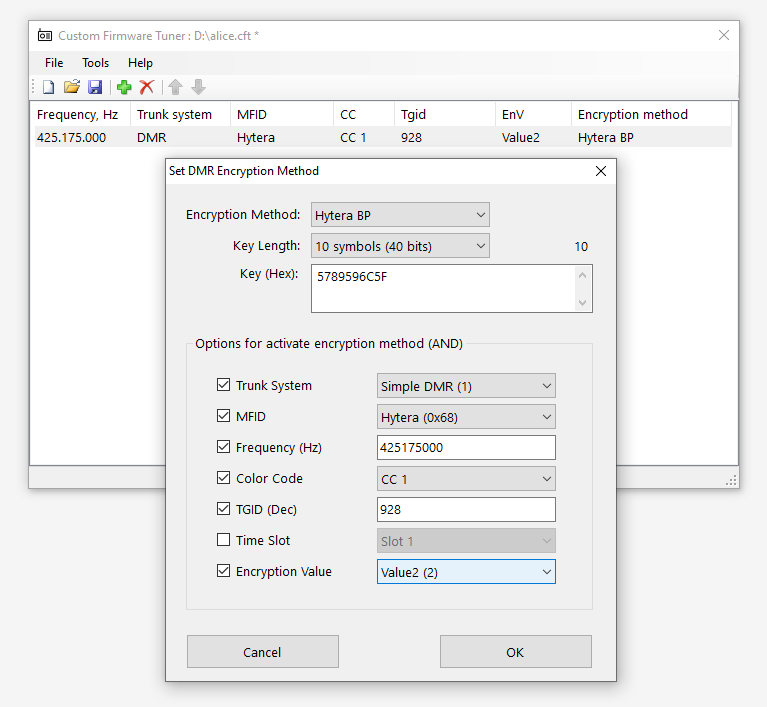
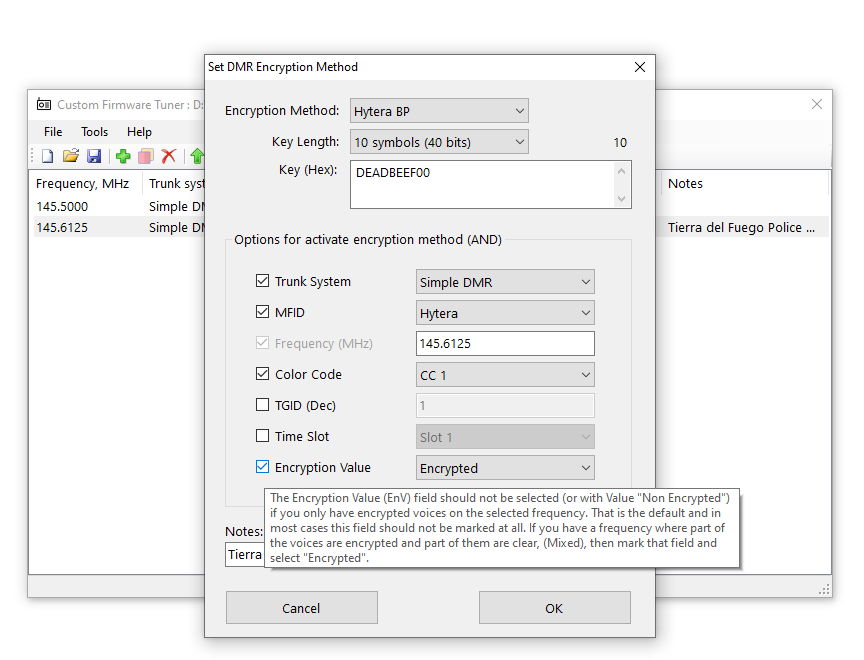
Frequency is now shown in MHz

Changed region(s): [[0.03, 0.0, 0.9896, 1.0], [0.5997, 0.0606, 0.7497, 0.0909]]

diff --git a/src/EncryptionMethodForm.Designer.cs b/src/EncryptionMethodForm.Designer.cs
@@ -68,7 +68,7 @@
             this.cbTrunkSystem.Location = new System.Drawing.Point(31, 41);
             this.cbTrunkSystem.Name = "cbTrunkSystem";
             this.cbTrunkSystem.Size = new System.Drawing.Size(103, 21);
-            this.cbTrunkSystem.TabIndex = 0;
+            this.cbTrunkSystem.TabIndex = 4;
             this.cbTrunkSystem.Text = "Trunk System";
             this.cbTrunkSystem.UseVisualStyleBackColor = true;
             this.cbTrunkSystem.CheckedChanged += new System.EventHandler(this.cb_CheckedChanged);
@@ -79,7 +79,7 @@
             this.cbMfid.Location = new System.Drawing.Point(31, 72);
             this.cbMfid.Name = "cbMfid";
             this.cbMfid.Size = new System.Drawing.Size(57, 21);
-            this.cbMfid.TabIndex = 1;
+            this.cbMfid.TabIndex = 6;
             this.cbMfid.Text = "MFID";
             this.cbMfid.UseVisualStyleBackColor = true;
             this.cbMfid.CheckedChanged += new System.EventHandler(this.cb_CheckedChanged);
@@ -92,9 +92,9 @@
             this.cbFrequency.Enabled = false;
             this.cbFrequency.Location = new System.Drawing.Point(31, 103);
             this.cbFrequency.Name = "cbFrequency";
-            this.cbFrequency.Size = new System.Drawing.Size(113, 21);
-            this.cbFrequency.TabIndex = 2;
-            this.cbFrequency.Text = "Frequency (Hz)";
+            this.cbFrequency.Size = new System.Drawing.Size(125, 21);
+            this.cbFrequency.TabIndex = 8;
+            this.cbFrequency.Text = "Frequency (MHz)";
             this.cbFrequency.UseVisualStyleBackColor = true;
             this.cbFrequency.CheckedChanged += new System.EventHandler(this.cb_CheckedChanged);
             // 
@@ -104,7 +104,7 @@
             this.cbColorCode.Location = new System.Drawing.Point(31, 134);
             this.cbColorCode.Name = "cbColorCode";
             this.cbColorCode.Size = new System.Drawing.Size(94, 21);
-            this.cbColorCode.TabIndex = 3;
+            this.cbColorCode.TabIndex = 10;
             this.cbColorCode.Text = "Color Code";
             this.cbColorCode.UseVisualStyleBackColor = true;
             this.cbColorCode.CheckedChanged += new System.EventHandler(this.cb_CheckedChanged);
@@ -115,7 +115,7 @@
             this.cbTgid.Location = new System.Drawing.Point(31, 165);
             this.cbTgid.Name = "cbTgid";
             this.cbTgid.Size = new System.Drawing.Size(88, 21);
-            this.cbTgid.TabIndex = 4;
+            this.cbTgid.TabIndex = 12;
             this.cbTgid.Text = "TGID (Dec)";
             this.cbTgid.UseVisualStyleBackColor = true;
             this.cbTgid.CheckedChanged += new System.EventHandler(this.cb_CheckedChanged);
@@ -126,7 +126,7 @@
             this.cbTimeSlot.Location = new System.Drawing.Point(31, 196);
             this.cbTimeSlot.Name = "cbTimeSlot";
             this.cbTimeSlot.Size = new System.Drawing.Size(81, 21);
-            this.cbTimeSlot.TabIndex = 5;
+            this.cbTimeSlot.TabIndex = 14;
             this.cbTimeSlot.Text = "Time Slot";
             this.cbTimeSlot.UseVisualStyleBackColor = true;
             this.cbTimeSlot.CheckedChanged += new System.EventHandler(this.cb_CheckedChanged);
@@ -137,7 +137,7 @@
             this.cbEncryptionValue.Location = new System.Drawing.Point(31, 227);
             this.cbEncryptionValue.Name = "cbEncryptionValue";
             this.cbEncryptionValue.Size = new System.Drawing.Size(123, 21);
-            this.cbEncryptionValue.TabIndex = 6;
+            this.cbEncryptionValue.TabIndex = 16;
             this.cbEncryptionValue.Text = "Encryption Value";
             this.toolTip.SetToolTip(this.cbEncryptionValue, resources.GetString("cbEncryptionValue.ToolTip"));
             this.cbEncryptionValue.UseVisualStyleBackColor = true;
@@ -150,7 +150,7 @@
             this.cbbTrunkSystem.Location = new System.Drawing.Point(191, 39);
             this.cbbTrunkSystem.Name = "cbbTrunkSystem";
             this.cbbTrunkSystem.Size = new System.Drawing.Size(179, 25);
-            this.cbbTrunkSystem.TabIndex = 7;
+            this.cbbTrunkSystem.TabIndex = 5;
             // 
             // cbbMfid
             // 
@@ -159,7 +159,7 @@
             this.cbbMfid.Location = new System.Drawing.Point(191, 70);
             this.cbbMfid.Name = "cbbMfid";
             this.cbbMfid.Size = new System.Drawing.Size(179, 25);
-            this.cbbMfid.TabIndex = 8;
+            this.cbbMfid.TabIndex = 7;
             // 
             // tbFrequency
             // 
@@ -175,7 +175,7 @@
             this.cbbColorCode.Location = new System.Drawing.Point(191, 132);
             this.cbbColorCode.Name = "cbbColorCode";
             this.cbbColorCode.Size = new System.Drawing.Size(179, 25);
-            this.cbbColorCode.TabIndex = 10;
+            this.cbbColorCode.TabIndex = 11;
             // 
             // cbbTimeSlot
             // 
@@ -184,7 +184,7 @@
             this.cbbTimeSlot.Location = new System.Drawing.Point(191, 194);
             this.cbbTimeSlot.Name = "cbbTimeSlot";
             this.cbbTimeSlot.Size = new System.Drawing.Size(179, 25);
-            this.cbbTimeSlot.TabIndex = 12;
+            this.cbbTimeSlot.TabIndex = 15;
             // 
             // cbbEncryptionValue
             // 
@@ -193,7 +193,7 @@
             this.cbbEncryptionValue.Location = new System.Drawing.Point(191, 225);
             this.cbbEncryptionValue.Name = "cbbEncryptionValue";
             this.cbbEncryptionValue.Size = new System.Drawing.Size(179, 25);
-            this.cbbEncryptionValue.TabIndex = 13;
+            this.cbbEncryptionValue.TabIndex = 17;
             // 
             // label1
             // 
@@ -211,7 +211,7 @@
             this.cbbEncryptionMethod.Location = new System.Drawing.Point(145, 18);
             this.cbbEncryptionMethod.Name = "cbbEncryptionMethod";
             this.cbbEncryptionMethod.Size = new System.Drawing.Size(179, 25);
-            this.cbbEncryptionMethod.TabIndex = 15;
+            this.cbbEncryptionMethod.TabIndex = 1;
             this.cbbEncryptionMethod.SelectedIndexChanged += new System.EventHandler(this.cb_CheckedChanged);
             // 
             // lblKeyExt
@@ -228,7 +228,7 @@
             this.tbTgid.Location = new System.Drawing.Point(191, 163);
             this.tbTgid.Name = "tbTgid";
             this.tbTgid.Size = new System.Drawing.Size(179, 25);
-            this.tbTgid.TabIndex = 11;
+            this.tbTgid.TabIndex = 13;
             // 
             // tbKey
             // 
@@ -237,7 +237,7 @@
             this.tbKey.Name = "tbKey";
             this.tbKey.ScrollBars = System.Windows.Forms.ScrollBars.Vertical;
             this.tbKey.Size = new System.Drawing.Size(282, 49);
-            this.tbKey.TabIndex = 18;
+            this.tbKey.TabIndex = 3;
             this.tbKey.Tag = "";
             this.tbKey.TextChanged += new System.EventHandler(this.tbKey_TextChanged);
             // 
@@ -280,7 +280,7 @@
             this.btnCancel.Location = new System.Drawing.Point(20, 510);
             this.btnCancel.Name = "btnCancel";
             this.btnCancel.Size = new System.Drawing.Size(154, 35);
-            this.btnCancel.TabIndex = 21;
+            this.btnCancel.TabIndex = 19;
             this.btnCancel.Text = "Cancel";
             this.btnCancel.UseVisualStyleBackColor = true;
             // 
@@ -290,7 +290,7 @@
             this.btnOK.Location = new System.Drawing.Point(273, 510);
             this.btnOK.Name = "btnOK";
             this.btnOK.Size = new System.Drawing.Size(154, 35);
-            this.btnOK.TabIndex = 22;
+            this.btnOK.TabIndex = 20;
             this.btnOK.Text = "OK";
             this.btnOK.UseVisualStyleBackColor = true;
             this.btnOK.Click += new System.EventHandler(this.btnOK_Click);
@@ -322,7 +322,7 @@
             0});
             this.nudMotoKey.Name = "nudMotoKey";
             this.nudMotoKey.Size = new System.Drawing.Size(179, 25);
-            this.nudMotoKey.TabIndex = 25;
+            this.nudMotoKey.TabIndex = 2;
             this.nudMotoKey.TextAlign = System.Windows.Forms.HorizontalAlignment.Right;
             this.nudMotoKey.Value = new decimal(new int[] {
             1,
@@ -336,7 +336,7 @@
             this.tbNotes.MaxLength = 32;
             this.tbNotes.Name = "tbNotes";
             this.tbNotes.Size = new System.Drawing.Size(407, 25);
-            this.tbNotes.TabIndex = 14;
+            this.tbNotes.TabIndex = 18;
             // 
             // label2
             // 

diff --git a/src/MainForm.Designer.cs b/src/MainForm.Designer.cs
@@ -67,7 +67,7 @@
             this.menuStrip.Location = new System.Drawing.Point(0, 0);
             this.menuStrip.Name = "menuStrip";
             this.menuStrip.Padding = new System.Windows.Forms.Padding(7, 2, 0, 2);
-            this.menuStrip.Size = new System.Drawing.Size(832, 24);
+            this.menuStrip.Size = new System.Drawing.Size(846, 24);
             this.menuStrip.TabIndex = 0;
             this.menuStrip.Text = "menuStrip1";
             // 
@@ -170,10 +170,10 @@
             // 
             // statusStrip
             // 
-            this.statusStrip.Location = new System.Drawing.Point(0, 415);
+            this.statusStrip.Location = new System.Drawing.Point(0, 455);
             this.statusStrip.Name = "statusStrip";
             this.statusStrip.Padding = new System.Windows.Forms.Padding(1, 0, 16, 0);
-            this.statusStrip.Size = new System.Drawing.Size(832, 22);
+            this.statusStrip.Size = new System.Drawing.Size(846, 22);
             this.statusStrip.TabIndex = 1;
             this.statusStrip.Text = "statusStrip1";
             // 
@@ -192,7 +192,7 @@
             this.tsbDown});
             this.toolStrip.Location = new System.Drawing.Point(0, 24);
             this.toolStrip.Name = "toolStrip";
-            this.toolStrip.Size = new System.Drawing.Size(832, 25);
+            this.toolStrip.Size = new System.Drawing.Size(846, 25);
             this.toolStrip.TabIndex = 2;
             this.toolStrip.Text = "toolStrip1";
             // 
@@ -305,7 +305,7 @@
             this.listView.MultiSelect = false;
             this.listView.Name = "listView";
             this.listView.ShowGroups = false;
-            this.listView.Size = new System.Drawing.Size(832, 366);
+            this.listView.Size = new System.Drawing.Size(846, 406);
             this.listView.TabIndex = 3;
             this.listView.TileSize = new System.Drawing.Size(168, 30);
             this.listView.UseCompatibleStateImageBehavior = false;
@@ -318,13 +318,13 @@
             // 
             // colFrequency
             // 
-            this.colFrequency.Text = "Frequency, Hz";
-            this.colFrequency.Width = 100;
+            this.colFrequency.Text = "Frequency, MHz";
+            this.colFrequency.Width = 113;
             // 
             // colTrunkSystem
             // 
             this.colTrunkSystem.Text = "Trunk system";
-            this.colTrunkSystem.Width = 100;
+            this.colTrunkSystem.Width = 94;
             // 
             // colMfid
             // 
@@ -360,7 +360,7 @@
             // 
             this.AutoScaleDimensions = new System.Drawing.SizeF(7F, 17F);
             this.AutoScaleMode = System.Windows.Forms.AutoScaleMode.Font;
-            this.ClientSize = new System.Drawing.Size(832, 437);
+            this.ClientSize = new System.Drawing.Size(846, 477);
             this.Controls.Add(this.listView);
             this.Controls.Add(this.toolStrip);
             this.Controls.Add(this.statusStrip);

diff --git a/src/EncryptionMethodForm.cs b/src/EncryptionMethodForm.cs
@@ -29,7 +29,7 @@ namespace CFT
                 cbbTimeSlot.SelectedIndex = 0;
                 cbbEncryptionValue.SelectedIndex = 0;
                 tbTgid.Text = "1";
-                tbFrequency.Text = "145500000";
+                tbFrequency.Text = Utils.GetFrequencyString(145500000);
                 tbKey.Text = string.Empty;
 
                 cbTrunkSystem.Checked = true;
@@ -63,7 +63,7 @@ namespace CFT
                     cbbEncryptionValue.SelectedIndex = 0;
 
                 tbTgid.Text = item.Tgid.ToString();
-                tbFrequency.Text = item.Frequency.ToString();
+                tbFrequency.Text = Utils.GetFrequencyString(item.Frequency);
                 if (Utils.IsArrayEmpty(item.Key))
                     tbKey.Text = string.Empty;
                 else
@@ -180,14 +180,16 @@ namespace CFT
                 return;
             }
 
-            if (!uint.TryParse(tbFrequency.Text.Trim(), out uint frequency))
+            if (!double.TryParse(tbFrequency.Text.Trim(), out double frequency))
             {
                 tbFrequency.Focus();
                 MessageBox.Show("Wrong frequency value!", "Error", MessageBoxButtons.OK, MessageBoxIcon.Warning);
                 return;
             }
 
-            if (frequency <= 25e6 ||  frequency > 1300e6)
+            var uintFreq = (uint)(frequency * 1e6);
+
+            if (uintFreq <= 25e6 || uintFreq > 1300e6)
             {
                 tbFrequency.Focus();
                 MessageBox.Show("Wrong frequency value (must be between 25MHz and 1300Mhz)!", "Error", MessageBoxButtons.OK, MessageBoxIcon.Warning);
@@ -215,7 +217,7 @@ namespace CFT
 
             var item = new DmrEncryptionMethodItem();
 
-            item.Frequency = frequency;
+            item.Frequency = uintFreq;
 
             var method = (DmrEncryptionMethodEnum)(cbbEncryptionMethod.SelectedItem as DisplayTagObject).Tag;
 

diff --git a/src/MainForm.cs b/src/MainForm.cs
@@ -136,7 +136,7 @@ namespace CFT
             listViewItem.SubItems.Add(listViewSubItem3);
 
             var listViewSubItem4 = new ListViewItem.ListViewSubItem();
-            listViewSubItem4.Text = item.IsActiveOption(DmrNeedOptionsEnum.EncryptValue) ? item.EncryptionValue.ToString() : "-";
+            listViewSubItem4.Text = item.IsActiveOption(DmrNeedOptionsEnum.EncryptValue) ? DisplayNameAttribute.GetName(item.EncryptionValue) : "-";
             listViewItem.SubItems.Add(listViewSubItem4);
 
             var listViewSubItem5 = new ListViewItem.ListViewSubItem();

diff --git a/src/Utils.cs b/src/Utils.cs
@@ -81,9 +81,8 @@ namespace CFT
         public static string GetFrequencyString(uint frequency)
         {
             int mhz = (int)(frequency / 1e6);
-            var khz = (int)(frequency % 1e6 / 1e3);
-            var hz = (int)(frequency % 1e3);
-            return $"{mhz:D03}.{khz:D03}.{hz:D03}";
+            var khz = (int)(frequency % 1e6 / 1e2);
+            return $"{mhz:D03}.{khz:D04}";
         }
 
     }
